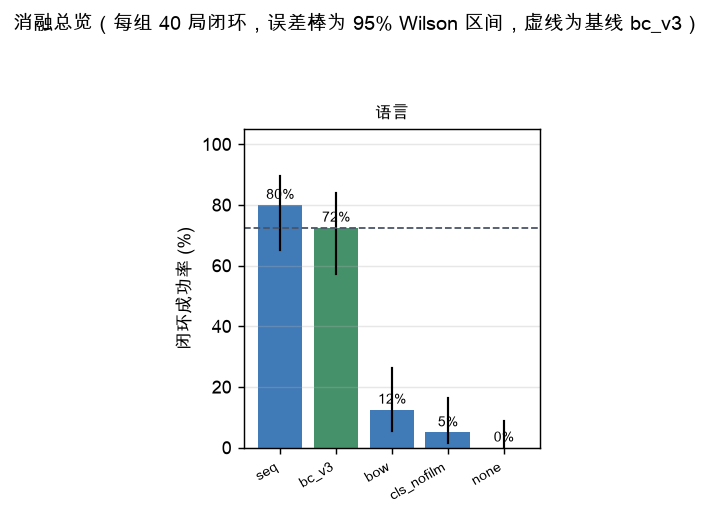
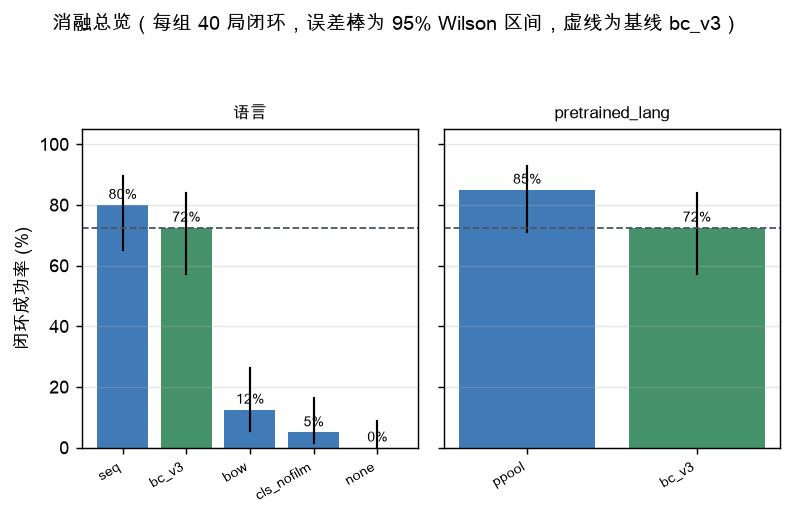
Correct overreading: order-capable encoders are indistinguishable in-distribution

diff --git a/notes/10-预训练语言编码器.md b/notes/10-预训练语言编码器.md
@@ -14,8 +14,26 @@
 | **极简说法** | **0%** | **52%** |
 | 指令角色对调 | 67% | **80%** |
 
-换措辞 0% → 40%、极简说法 0% → 52%，同时训练分布内的成功率也从 72.5% 提到 85%。
-**更好的语言表示不只是泛化红利，本身也让接地更容易。**
+换措辞 0% → 40%、极简说法 0% → 52%。
+
+**但"分布内也更好"这个结论站不住，我一开始读错了。** 换成 k=1（已知更优的推理设置）
+重评 60 局之后：
+
+| 模型（k=1, n=60） | 成功率 | 95% 区间 |
+|---|---|---|
+| `lang_seq`（字符） | 85.0% | 74%–92% |
+| `bc_v3` / cls（字符，n=80） | 83.8% | 74%–90% |
+| `lang_ppool`（预训练） | 80.0% | 68%–88% |
+
+排序和 k=4 时正好相反（那时 ppool 85%、seq 80%）。**三者的差异完全在噪声里。**
+
+所以准确的结论是：
+- **能不能表达顺序**是真正的分水岭：能的（cls / seq / ppool）都在 80–85%，
+  彼此没有可辨差异；不能的（bow 12.5% / nofilm 5% / none 0%）全线崩溃。
+- **预训练语言编码器的价值不在分布内，而在换措辞**（0% → 40%、0% → 52%）。
+
+这也是个方法上的教训：**同一组模型换个推理设置排序就能翻过来，说明差距本来就在区间内。
+单次训练 + 40 局评测，只能分辨"崩了 vs 没崩"这个量级的差异。**
 
 ## 我预测错了
 

diff --git a/docs/SUMMARY.md b/docs/SUMMARY.md
@@ -1,4 +1,4 @@
-# StarVLA 实验总结（2026-08-24 03:56）
+# StarVLA 实验总结（2026-08-24 05:02）
 
 ## 基线
 
@@ -29,6 +29,15 @@
 | terse | 0% | 更短的措辞：红方块到蓝盘子 |
 | swap_role | 67% | 指令里方块/盘子颜色对调 |
 | plate3 | 52% | 3 个盘子（训练是 2 个） |
+
+`lang_ppool`：
+
+| 测试项 | 成功率 | 说明 |
+|---|---|---|
+| base | 92% | 训练分布（对照） |
+| paraphrase | 40% | 换措辞：拿起…放到…里 |
+| terse | 52% | 更短的措辞：红方块到蓝盘子 |
+| swap_role | 80% | 指令里方块/盘子颜色对调 |
 
 ## 代码与文档
 
